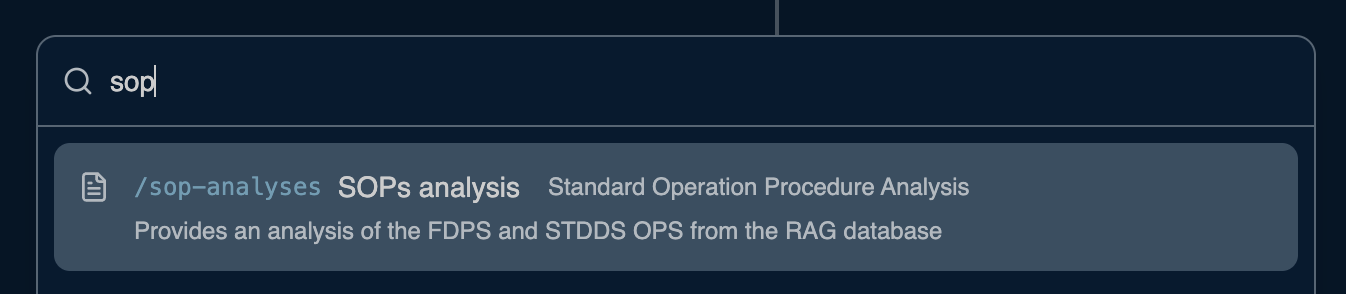
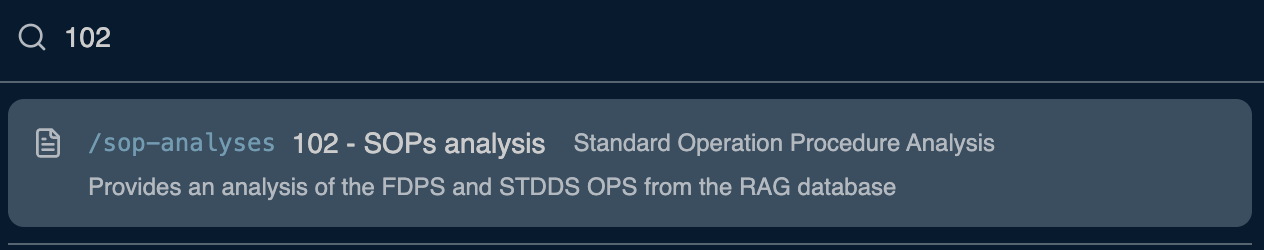
update

diff --git a/100-SOPs.md b/100-SOPs.md
@@ -14,7 +14,8 @@
 4. [Exercise: Analyzing System Documentation](#exercise-analyzing-system-documentation)
    - [Step 1: Upload CONOPS Documents](#step-1-upload-conops-documents)
    - [Step 2: Query the RAG Agent](#step-2-query-the-rag-agent)
-5. [Next Steps](#next-steps) The Data Streams - FDPS, STDDS, and RAG
+   - [Using the prepopulated prompts, follow the next steps](#using-the-prepopulated-prompts-follow-the-next-steps)
+5. [Next Steps](#next-steps)
 
 ## Introduction to FAA Systems
 
@@ -273,7 +274,7 @@ apps:
 ```
 ### Step 3: Set Up Environment Variables
 
-Confirm your `.env` file has the correct values for the following:
+Your `.env` file should already have the values populated for the following:
 
 ```
 ## Qdrant Configuration
@@ -286,7 +287,7 @@ DOCUMENTS_PATH="faa_documents"
 BEDROCK_EMBEDDING_MODEL_NAME="bedrock/amazon.titan-embed-text-v2:0"
 ```
 
-> Note: please refer to the Event Output for `VectorDBEndpoint` and `VectorDBKey`. Note the `QDRANT_COLLECTION` has to be updated with a unique name
+> Note: please refer to the Event Output for `VectorDBEndpoint` and `VectorDBKey`.
 
 ### Step 4: Create Document Directory
 
@@ -374,13 +375,13 @@ Tell me about the FDPS and STDDS systems and data.
 
 Wait for the response and review the summary.
 
-Using the prepopulated prompts, follow the next steps
+### Using the prepopulated prompts, follow the next steps
 
 1. From the chat interface, type `/` to insert a prompt
 
   ![prompt insert](img/prompt_insert.png)
 
-1. Type in `sop-`
+1. Type in `102`
 
   ![prompt insert](img/sop_prompt.png)
 
@@ -391,6 +392,8 @@ Using the prepopulated prompts, follow the next steps
 1. Execute the prompt
 
   ![prompt insert](img/prompt_analyses.png)
+
+> For the remaining of the workshop, every section will have its dedicated list of prompts that can be retrieved by typing `/<section_number>` in the chat prompt
 
 The RAG agent will provide:
 - High-level overviews of each system's purpose and functionality
